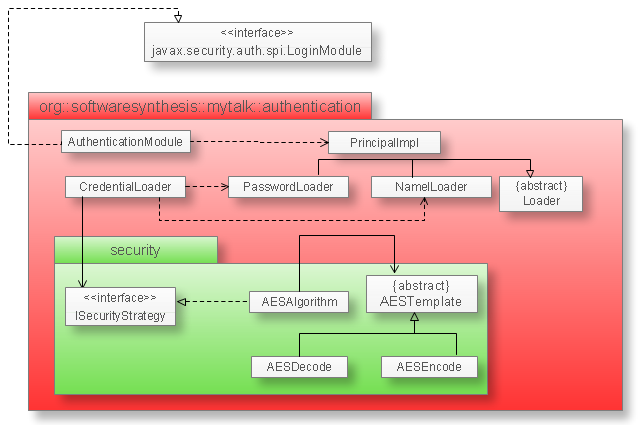
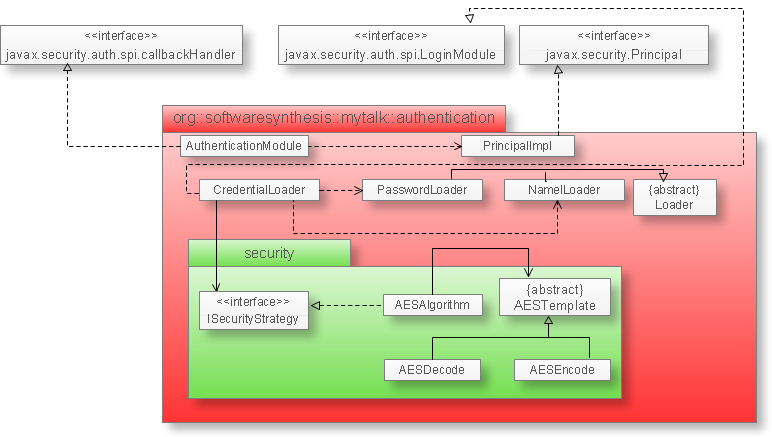
verificata specifica tecinca- gestione autenticazione

diff --git a/Documents/specifica_tecnica/specifica_tecnica.tex b/Documents/specifica_tecnica/specifica_tecnica.tex
@@ -786,28 +786,28 @@ Le loro funzionalità riguardano principalmente le possibilità di modificare, c
   \item{\scshape\bfseries Descrizione:}\\
 L'autenticazione passa attraverso due fasi: la richiesta di \inglese{login} e l'approvazione (\inglese{commit}). La richiesta di \inglese{login} verifica le credenziali di accesso con i dati memorizzati all'interno del database, mentre la richiesta di \inglese{commit} assegna al \inglese{subject} che ha attivato la procedura di autenticazione, dei valori identificativi che permettano di identificarlo finché esso utilizza il sistema software.
 
-Quando un utente avvia la procedura di autenticazione il controller che espone le funzionalità di questo componente, \texttt{authentication.controller.LoginController} crea il contesto di autenticazione generando un istanza di \texttt{authentication.CredentialLoader} che ha il compito di caricare le credenziali di accesso (caricando i dati di autenticazione mediante \texttt{authentication.NameLoader} e \texttt{authentication.PasswordLoader}) e accede al file di configurazione per istanziare il giusto modulo per l'autenticazione, costituito dalla classe \texttt{authentication.AuthenticationModule}.
+Quando un utente avvia la procedura di autenticazione il \inglese{controller} che espone le funzionalità di questo componente (\texttt{authentication.controller.LoginController}), crea il contesto di autenticazione generando un istanza di \texttt{authentication.CredentialLoader} che ha il compito di caricare le credenziali di accesso (recuperando i dati di autenticazione mediante \texttt{authentication.NameLoader} e \texttt{authentication.PasswordLoader}) e accede al file di configurazione per istanziare il giusto modulo per l'autenticazione, costituito dalla classe \texttt{authentication.AuthenticationModule}.
 
-La componente predispone anche le funzionalità da usare per eseguire il \inglese{logout} di un utente registrato nel sistema, e la registrazione al sistema stesso. Tale funzionalità saranno richiamabili mediante 2 controller:
+La componente predispone anche le funzionalità da usare per eseguire il \inglese{logout} di un utente registrato nel sistema, e la registrazione al sistema stesso. Tale funzionalità saranno richiamabili mediante 2 \inglese{controller}:
 \begin{itemize}
 	\item \texttt{authentication.controller.LogoutController}
 	\item \texttt{authentication.controller.RegisterController}
 \end{itemize}
 
-Altri due controller sono predisposti per il recupero della password. Nello specifico: 
+Altri due \inglese{controller} sono predisposti per il recupero della password. Nello specifico: 
 
 \begin{itemize}
 	\item \texttt{authentication.controller.QuestionController}: per richiedere al server la domanda segreta a cui rispondere.
 	\item \texttt{authentication.controller.AnswerController} per richiedere al server la validazione della risposta inserita dall'utente.
 \end{itemize}
 
-Per garantire un buon livello di sicurezza nell'invio dei dati l'applicativo si appoggia ad un sistema di criptazione basato su algoritmo AES. La classe che fornisce tali funzionalità è \texttt{authentication.security.AESAlgorithm}, implementazione di \texttt{authentication.security.ISecurityStrategy}. Tale classe fornisce due procedure, quella per criptare i dati e quella per decriptarli. Esse sono rappresentate dalle classi \texttt{authentication.security.AESEncode} e \texttt{authentication.security.AESDecode}. Entrambe estendono la classe astratta \texttt{authentication.security.AESTemplate} e basano la propria implementazione sul \inglese{pattern} \texttt{Template Method}.
+Per garantire un buon livello di sicurezza nell'invio dei dati l'applicativo si appoggia ad un sistema di criptazione basato su algoritmo AES. Tali funzionalità sono fornite dalla classe \texttt{authentication.security.AESAlgorithm}, che implementa l'interfaccia \texttt{authentication.security.ISecurityStrategy}. Tale classe fornisce due procedure, quella per criptare i dati e quella per decriptarli. Esse sono rappresentate dalle classi \texttt{authentication.security.AESEncode} e \texttt{authentication.security.AESDecode}. Entrambe estendono la classe astratta \texttt{authentication.security.AESTemplate} e basano la propria implementazione sul \inglese{pattern} \texttt{Template Method}.
   
   \item{\scshape\bfseries Diagramma delle classi:}
 \begin{figure}[H]
   \centering
 %TODO questo diagramma manca
- \includegraphics[width=.8\textwidth]{class_gestione_autenticazione}
+ \includegraphics[width=1\textwidth]{class_gestione_autenticazione}
   \caption{Diagramma delle classi - Gestione autenticazione}\label{fig:gestioneautenticazione}
 \end{figure}	
   
@@ -895,9 +895,9 @@ Infine, allo scopo di consentire ai client l'accesso alle funzionalità di quest
 \subsubsection{CS07 -- Gestione controller}\label{sec:cs07}
 \begin{description}
 	\item{\scshape\bfseries Descrizione:}\\
-Il componente ha il ruolo di descrivere tutte le funzionalità che il sistema server è in grado di svolgere, ad esempio il blocco di un contatto, l'aggiunta dello stesso alla rubrica, ad un gruppo, o la ricerca di uno specifico nel database generale. A tali funzionalità si accede mediante un front controller (CS08, descritto nel paragrafo successivo) che implementa un sistema che permette di monitorare le richieste sulle stesse.
+Il componente ha il ruolo di descrivere tutte le funzionalità che il sistema server è in grado di svolgere, ad esempio il blocco di un contatto, l'aggiunta dello stesso alla rubrica, ad un gruppo, o la ricerca di uno specifico nel database generale. A tali funzionalità si accede mediante un \inglese{front controller} (CS08, descritto nel paragrafo successivo) che implementa un sistema che permette di monitorare le richieste sulle stesse.
 
-Per ogni operazione viene definito un controller (classe che estende \texttt{AbstracController}, un implementazione di \texttt{IController}). La mappatura fra componenti del server e i rispettivi \inglese{controller} è illustrata dalla seguente tabella:
+Per ogni operazione viene definito un \inglese{controller} (classe che estende \texttt{AbstracController}, un implementazione di \texttt{IController}). La mappatura fra componenti del server e i rispettivi \inglese{controller} è illustrata dalla seguente tabella:
 
 \begin{center}
 \rowcolors{2}{lightblue}{llightblue}
@@ -962,17 +962,17 @@ Il compito di interfacciarsi con \textsf{Gestione rubrica} per recuperare la rub
 	  \item[-] \texttt{abook.controller.DeleteInGroupController}: richiamata dal front controller, su richiesta di un client, per rimuovere un contatto da un gruppo della propria rubrica;
 	  \item[-] \texttt{abook.controller.BlockContactController}: richiamata dal front controller, su richiesta di un client, per bloccare un contatto presente nella propria rubrica, indifferentemente dai gruppi (della rubrica del client) in cui esso si trova;
 	  \item[-] \texttt{abook.controller.UnblockContactController}: richiamata dal front controller, su richiesta di un client, per sbloccare un contatto presente nella propria rubrica;
-	  \item[-] \texttt{abook.controller.GetContactsController}: richiamata dal front controller, su richiesta di un client, per scaricare la lista dei contatti presenti nella propria rubrica;
+	  \item[-] \texttt{abook.controller.GetContactsController}: richiamata dal \inglese{front controller}, su richiesta di un client, per scaricare la lista dei contatti presenti nella propria rubrica;
 	  \item[-] \texttt{abook.controller.GetGroupsController}: richiamata dal front controller (su richiesta di un client) per scaricare lista dei contatti e dei gruppi in cui in cui il richiedente è inserito;
 	  \item[-] \texttt{abook.controller.SearchController}: utilizzata per ricercare gli utente contenenti nei parametri nome, cognome o mail, una parola chiave usata per fare la ricerca e passata al \inglese{controller};
-	  \item[-] \texttt{abook.controller.AccountSettingsController}: richiamata dal front controller per modificare i dati del client nel server.
+	  \item[-] \texttt{abook.controller.AccountSettingsController}: richiamata dal \inglese{front controller} per modificare i dati del client nel server.
 \end{itemize}
 
 I cambiamenti di stato di un utente sono invece processati da \texttt{Controller Manager} che fornisce di conseguenza anch'esso un punto d'accesso al componente \textsf{Gestione rubrica}.
 
 Ai fini del \inglese{login} è utilizzato invece il \inglese{controller} \texttt{authentication.controller.LoginController}, che ha il compito di interfacciarsi con il sistema di autenticazione e, in particolare, con l'istanza del sottotipo di \texttt{javax.security.auth.spi.LoginModule} in uso per verificare le credenziali. Inoltre come già accennato sono presenti il \inglese{controller} per il \inglese{logout} \texttt{authentication.controller.LogoutController}, quello per la registrazione al sistema \texttt{authentication.controller.RegisterController} e quelli per la domanda segreta e la risposta alla medesima, rispettivamente \texttt{authentication.controller.QuestionController} e \texttt{authentication.controller.AnswerController}.\\
 
-Infine il download e la gestione della segreteria telefonica (di competenza di \textsf{Gestione segreteria}) e dello storico delle chiamate (per quanto riguarda il componente \textsf{Gestione chiamate}) avvengono in risposta alle richieste dei client pervenute al pacchetto di controller \texttt{message.controller} e \texttt{call.controller.GetCallsController} rispettivamente. 
+Infine il download e la gestione della segreteria telefonica (di competenza di \textsf{Gestione segreteria}) e dello storico delle chiamate (per quanto riguarda il componente \textsf{Gestione chiamate}) avvengono in risposta alle richieste dei client pervenute al pacchetto di \inglese{controller} \texttt{message.controller} e \texttt{call.controller.GetCallsController} rispettivamente. 
 
 	\item{\scshape\bfseries Diagramma delle classi:}
 \begin{figure}[H]
@@ -981,9 +981,9 @@ Infine il download e la gestione della segreteria telefonica (di competenza di \
   \caption{Diagramma delle classi - Gestione controller}\label{fig:facadeserver}
 \end{figure}
 
-Il diagramma in figura \ref{fig:facadeserver} rappresenta la gerarchia dei \inglese{controller} del front controller ma non mostra in dettaglio le dipendenze fra ognuna di questi e i componenti interni ai sotto-package \texttt{abook}, \texttt{authentication}, \texttt{call}, \texttt{connection} e \texttt{message} per non appesantire troppo la notazione.
+Il diagramma in figura \ref{fig:facadeserver} rappresenta la gerarchia dei \inglese{controller} del \inglese{front controller} ma non mostra in dettaglio le dipendenze fra ognuna di questi e i componenti interni ai sotto-package \texttt{abook}, \texttt{authentication}, \texttt{call}, \texttt{connection} e \texttt{message} per non appesantire troppo la notazione.
 
-Tali dipendenze, di fondamentale importanza per l'architettura, sono però riportate nei diagrammi della sezione \vref{sec:patternfacade} in cui è descritta con maggiori dettagli l'applicazione del \inglese{design pattern} front controller.
+Tali dipendenze, di fondamentale importanza per l'architettura, sono però riportate nei diagrammi della sezione \vref{sec:patternfacade} in cui è descritta con maggiori dettagli l'applicazione del \inglese{design pattern} \inglese{front controller}.
 	
 	\item{\scshape\bfseries Classi utilizzate:}\\
 	\begin{itemize}[noitemsep,nolistsep]
@@ -1025,7 +1025,7 @@ Tale componente ha il ruolo di offrire ai client un punto di accesso alle funzio
 
 La classe Java \texttt{HttpServlet} implementa un sistema di \inglese{listening} che permette di monitorare costantemente richieste in ingresso. Queste ultime possono essere di duplice natura e corrispondono ai metodi di invio dei dati previsti dal protocollo HTTP (\texttt{GET} e \texttt{POST}).
 
-Per riconoscere il tipo di richiesta inoltrata il \inglese{front controller}, rappresentato dalla classe \texttt{ControllerManager}, si appoggia ad un \inglese{file .properties} contenente le associazioni tra i nomi dei controller e i percorsi delle classi corrispondenti.
+Per riconoscere il tipo di richiesta inoltrata il \inglese{front controller}, rappresentato dalla classe \texttt{ControllerManager}, si appoggia ad un \inglese{file .properties} contenente le associazioni tra i nomi dei \inglese{controller} e i percorsi delle classi corrispondenti.
 
 	\item{\scshape\bfseries Diagramma delle classi:}\\
 \begin{figure}[H]
@@ -1051,7 +1051,7 @@ Il diagramma in figura X rappresenta l'implementazione generica del \inglese{fro
 \item \texttt{IController}
 \begin{description}
   \item{\scshape\bfseries Descrizione:}\\
-Interfaccia che definisce un generico controller.
+Interfaccia che definisce un generico \inglese{controller}.
   \item{\scshape\bfseries Componenti che ne fanno uso:}
   \begin{itemize}[noitemsep,nolistsep]
     \item[-] \textsf{CS07 -- Gestione controller}
@@ -1073,7 +1073,7 @@ Classe astratta che implementa \texttt{IController}. Fornisce un implementazione
 \item \texttt{ControllerManager}
 \begin{description}
   \item{\scshape\bfseries Descrizione:}\\
-Classe che costituisce il front controller del server. Ogni richiesta inoltrata al server dovrà passare per questa classe. Essa avrà quindi il compito di riconoscere il tipo di richiesta (tramite un associazione nomi richiesta - classe destinataria), e di creare quindi un istanza del controller associato.
+Classe che costituisce il front \inglese{controller} del server. Ogni richiesta inoltrata al server dovrà passare per questa classe. Essa avrà quindi il compito di riconoscere il tipo di richiesta (tramite un associazione nomi richiesta - classe destinataria), e di creare quindi un istanza del controller associato.
   \item{\scshape\bfseries Componenti che ne fanno uso:}
   \begin{itemize}[noitemsep,nolistsep]
     \item[-] \textsf{CS08 -- Front controller}
@@ -2741,7 +2741,7 @@ La classe DAO Data Persistance Manager, consente di isolare l'accesso alle tabel
   \caption{Applicazione del \inglese{pattern} Data Access Object}\label{fig:dao}
 \end{figure}
 
-A titolo esemplificativo si riporta nel diagramma la relazione d'uso che intercorre tra \texttt{AddContactController} e \texttt{DataPersistanceManager}. Tale dipendenza è caratteristica di ogni classe controller. Qui vengono omesse al fine di rendere il diagramma più chiaro e comprensibile.
+A titolo esemplificativo si riporta nel diagramma la relazione d'uso che intercorre tra \texttt{AddContactController} e \texttt{DataPersistanceManager}. Tale dipendenza è caratteristica di ogni classe \inglese{controller}. Qui vengono omesse al fine di rendere il diagramma più chiaro e comprensibile.
 
 Operando una distinzione di questo tipo gli utenti esterni possono considerare gli oggetti che richiedono la mappatura nel database alla stregua di normali oggetti Java (POJO) senza preoccuparsi del meccanismo di persistenza dei dati.
 \end{description}
@@ -2754,7 +2754,7 @@ Fornire un punto d'ingresso centralizzato per la gestione delle richieste, defin
 \subsubsection{Componenti che lo implementano}
 \begin{description}
   \item{\scshape\bfseries CS08 -- Front controller}\\
-Questa componente della sotto-architettura server fornisce un unico punto d'accesso al sistema, andando a delegare le operazioni richieste al corrispondente controller presente in \texttt{CS07 -- Gestione controller}. La classe cosi definita è \texttt{ControllerManager}. Le componenti su cui possono interagire direttamente i controller sono: \textsf{Gestione rubrica}, \textsf{Gestione connessione}, \textsf{Gestione segreteria}, \textsf{Gestione chiamate} e \textsf{Gestione autenticazione}, come riportato nella tabella della sezione \vref{sec:cs07}.
+Questa componente della sotto-architettura server fornisce un unico punto d'accesso al sistema, andando a delegare le operazioni richieste al corrispondente \inglese{controller} presente in \texttt{CS07 -- Gestione controller}. La classe cosi definita è \texttt{ControllerManager}. Le componenti su cui possono interagire direttamente i \inglese{controller} sono: \textsf{Gestione rubrica}, \textsf{Gestione connessione}, \textsf{Gestione segreteria}, \textsf{Gestione chiamate} e \textsf{Gestione autenticazione}, come riportato nella tabella della sezione \vref{sec:cs07}.
 \end{description}
 
 
@@ -2775,8 +2775,8 @@ Questa componente della sotto-architettura server fornisce un unico punto d'acce
 Tale diagramma rappresenta il funzionamento del \inglese{front controller}.Si osservi che:
 	\begin{itemize}
 		\item il client richiama il \inglese{front controller} (CommandManager) per l'esecuzione di un ben determinato comando (e.g. aggiungere un utente alla propria rubrica);
-		\item il \inglese{front controller} è l'unico a conoscere le associazioni operazioni-controller e si occupa quindi di creare il controller che è in grado di risolvere l'operazione richiesta dal client;
-		\item dopo la creazione del controller, il \inglese{front controller} delega a quest'ultimo l'esecuzione dell'operazione.
+		\item il \inglese{front controller} è l'unico a conoscere le associazioni operazioni-\inglese{controller} e si occupa quindi di creare il \inglese{controller} che è in grado di risolvere l'operazione richiesta dal client;
+		\item dopo la creazione del \inglese{controller}, il \inglese{front controller} delega a quest'ultimo l'esecuzione dell'operazione.
 	\end{itemize}
 
 \subsection{Factory Method}\label{sec:patternfactorymethod}
@@ -2871,7 +2871,7 @@ In tale componente la classe \texttt{authentication.security.AESTemplate} implem
 
 
 	\item{\scshape\bfseries CS07 -- Gestione controller}\\
-In tale componente la classe \texttt{server.AbstractController} definisce una procedura per l'esecuzione di una richiesta inoltrata da un client alg server. Tale procedura prevede di richiamare un metodo atto all'esecuzione della richiesta specifica. La procedura definita da tale metodo, secondo l'implementazione del \texttt{template method}, viene ridefinita all'interno delle classi figlie di \texttt{server.AbstractController}. Tali classi sono tutte e sole quelle contenute nella componente CS07, ossia tutti i controller del sistema.
+In tale componente la classe \texttt{server.AbstractController} definisce una procedura per l'esecuzione di una richiesta inoltrata da un client alg server. Tale procedura prevede di richiamare un metodo atto all'esecuzione della richiesta specifica. La procedura definita da tale metodo, secondo l'implementazione del \texttt{template method}, viene ridefinita all'interno delle classi figlie di \texttt{server.AbstractController}. Tali classi sono tutte e sole quelle contenute nella componente CS07, ossia tutti i \inglese{controller} del sistema.
 
 \begin{figure}[H]
   \centering
@@ -2881,7 +2881,7 @@ In tale componente la classe \texttt{server.AbstractController} definisce una pr
 
 
 
-Per rendere il diagramma più chiaro e leggibile, sono state omesse le relazioni d'uso che intercorrono tra \texttt{AbstractController} e le classi controller. Come unico esempio è stata riportata la relazione inerente \texttt{AddContactController} e \texttt{LoginController}.
+Per rendere il diagramma più chiaro e leggibile, sono state omesse le relazioni d'uso che intercorrono tra \texttt{AbstractController} e le classi \inglese{controller}. Come unico esempio è stata riportata la relazione inerente \texttt{AddContactController} e \texttt{LoginController}.
 
 \end{description}
 
